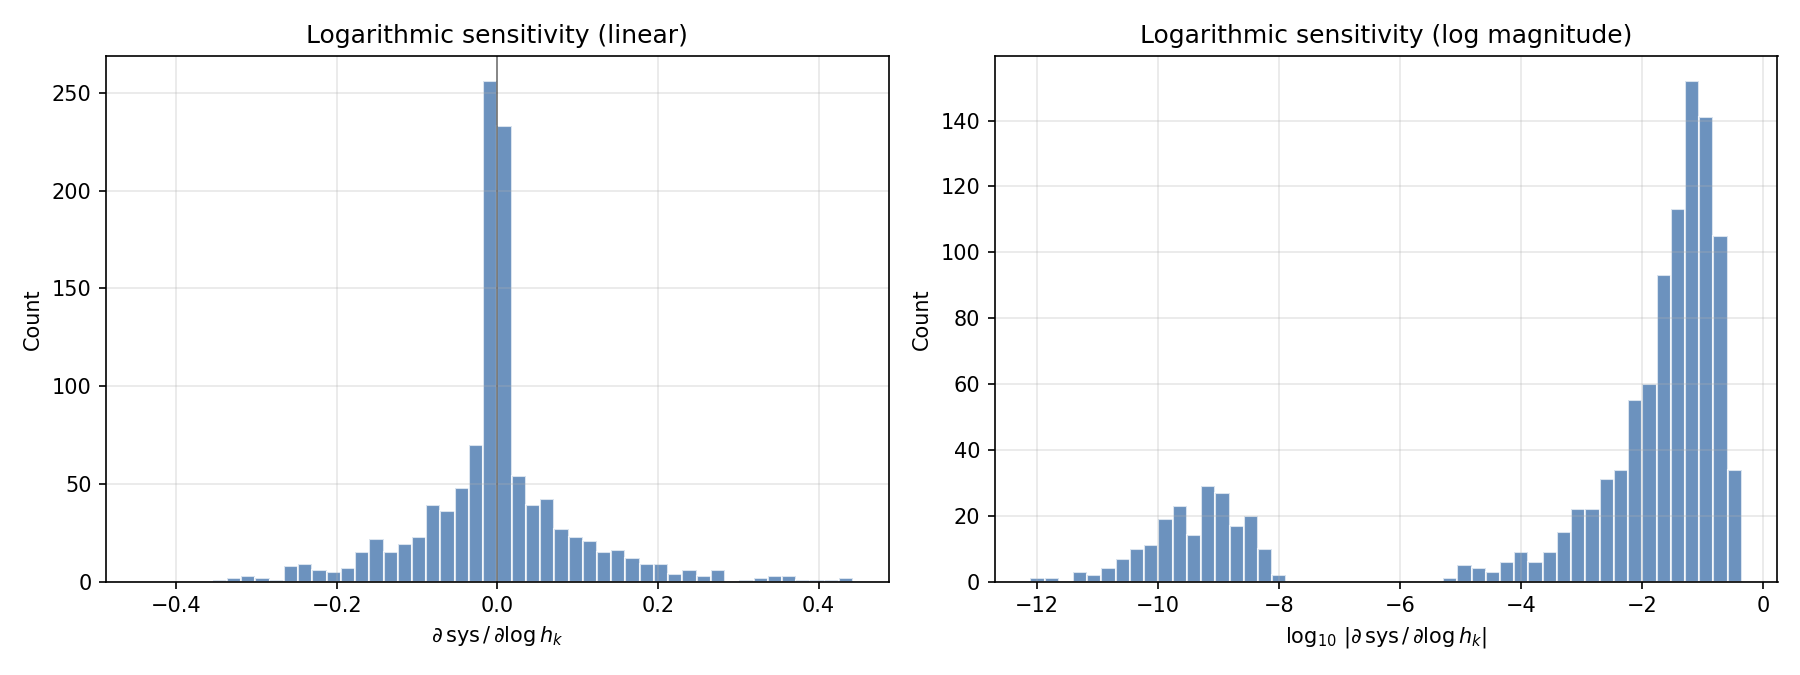
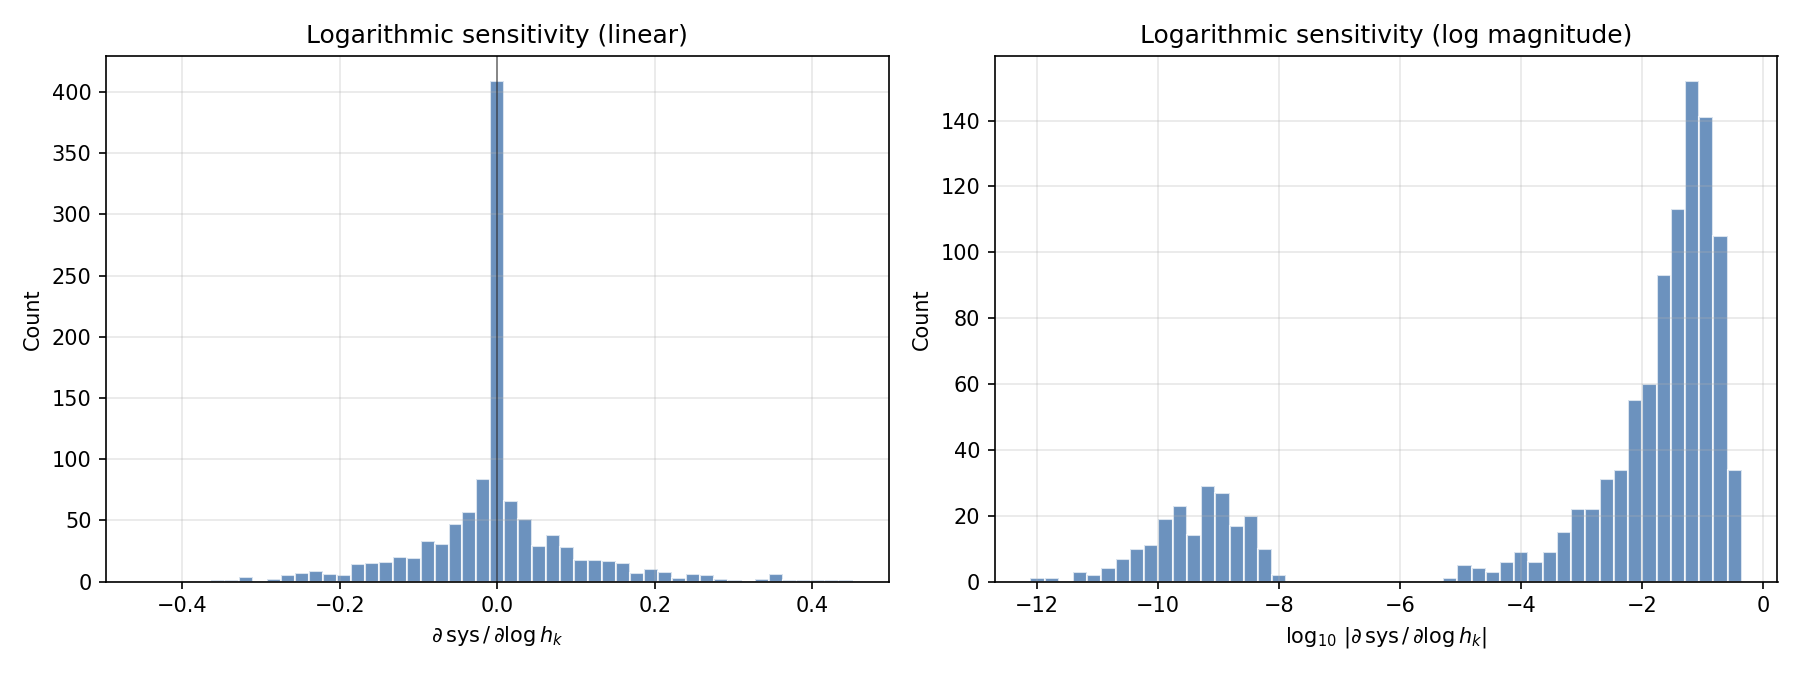
Fix histogram bin centering: zero now centered in a bin, not on edge

diff --git a/experiments/sys-optimization/sys_optimization.py b/experiments/sys-optimization/sys_optimization.py
@@ -75,7 +75,9 @@ def plot_gradient_histogram(sens_rows: list[dict], output_path: Path) -> None:
 
     # Signed histogram (linear scale), bins centered on zero
     extent = max(abs(all_grads.min()), abs(all_grads.max()))
-    bin_edges = np.linspace(-extent, extent, 51)
+    n_bins = 50
+    bin_width = 2 * extent / n_bins
+    bin_edges = np.arange(-extent - bin_width / 2, extent + bin_width, bin_width)
     ax1.hist(all_grads, bins=bin_edges, color="#3b6ea8", alpha=0.75, edgecolor="white")
     ax1.axvline(x=0, color="black", linewidth=0.8, alpha=0.5)
     ax1.set_xlabel(r"$\partial\,\mathrm{sys}\,/\,\partial\log h_k$")
